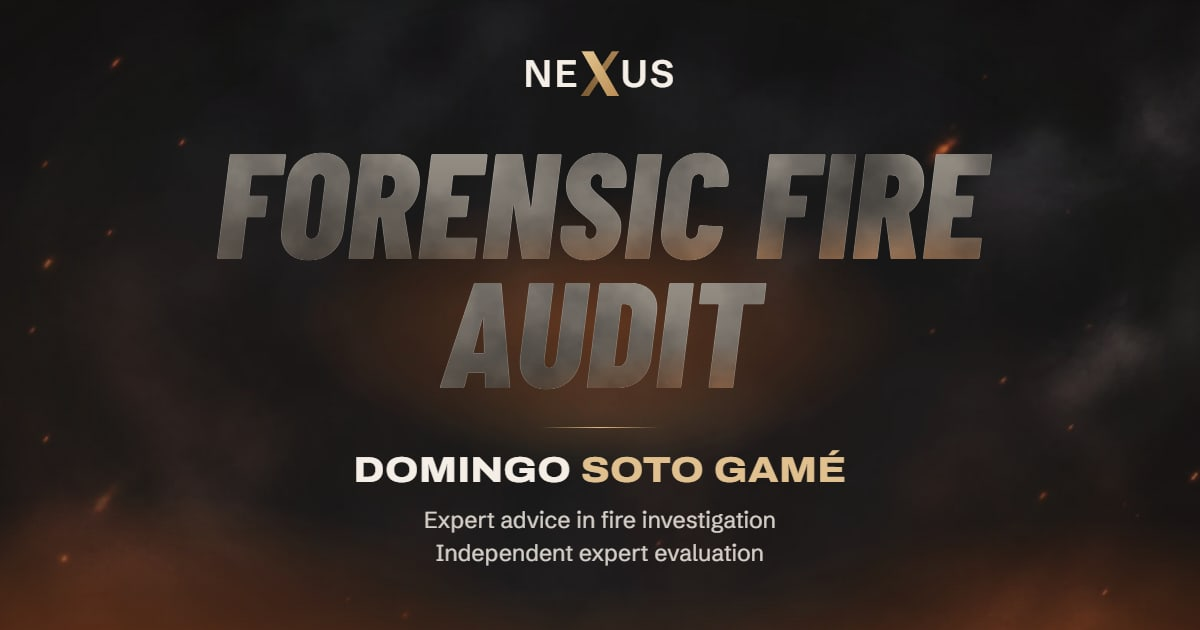
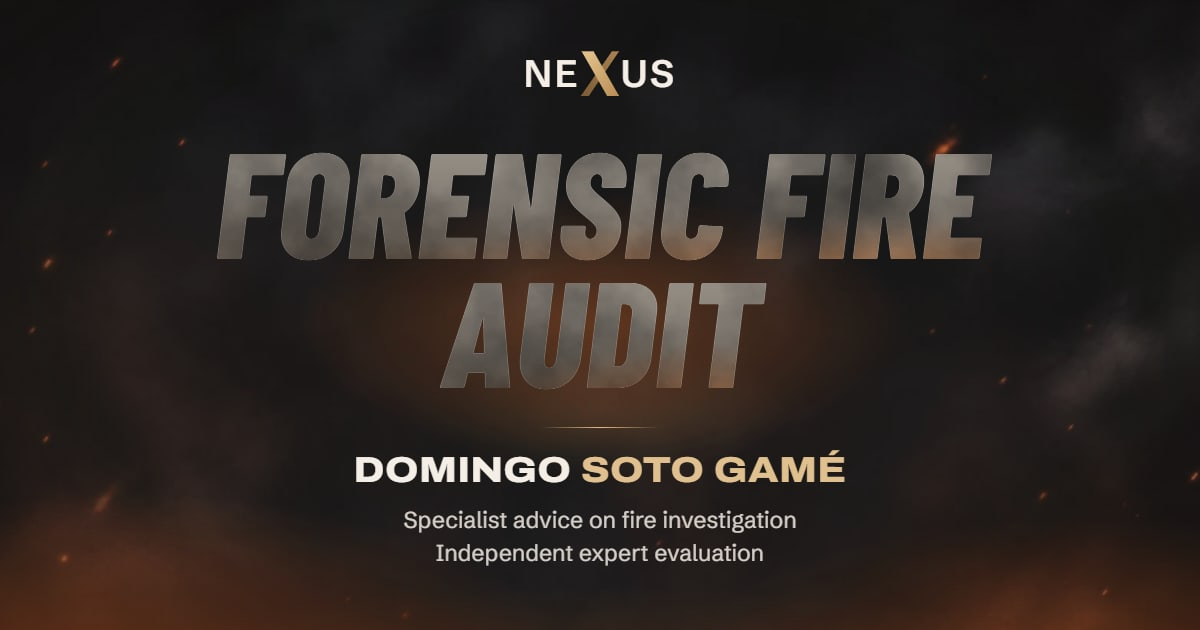
Portada: arreglos de la revisión (sellos en la columna, pantallas bajas, frases y botones)
- Frases: nueva redacción en inglés y primera frase en portugués más corta;
  la letra baja apenas en celular para que cada frase quepa en una línea
  desde 320 px en los 3 idiomas.
- Hasta 1023 px los sellos IAAI van dentro de la columna, justo sobre el
  título, y forman un solo grupo con el resto.
- Pantallas de poco alto bajo 1024 px de ancho: hasta 640 px de alto el título
  baja y se oculta la etiqueta rotativa; hasta 500 px, además, márgenes
  mínimos, sellos y botones más bajos y, si el ancho da, las frases en una
  línea. Los dos botones quedan en la primera pantalla.
- Botones bajo 360 px con letra y relleno menores: ya no se parten en dos líneas.
- test:portada mide las letras del título (no el bloque de la línea) y suma 320x568.
- Imágenes al compartir regeneradas con las frases nuevas.
- Comentario de Hero.tsx y DESIGN.md al día.

Changed region(s): [[0.3392, 0.8143, 0.6783, 0.8444]]

diff --git a/src/components/hero/Hero.tsx b/src/components/hero/Hero.tsx
@@ -16,7 +16,7 @@ import { Embers } from "./Embers";
 import { RotatingTag } from "./RotatingTag";
 import { SmokeGL } from "./SmokeGL";
 
-// Entrada comprimida (revisión general, 12-11): título, nombre, frase y botones quedan en pantalla antes de ~1,5 s.
+// Entrada comprimida (revisión general, 12-11): título, nombre, frases y botones quedan en pantalla antes de ~1,5 s.
 // Los demás tiempos están en globals.css.
 // El paso entre letras bajó de 0,04 a 0,032 s con el título nuevo (20-11): la línea más larga tiene 17 letras
 // y así termina de encenderse a la misma hora que la anterior.
@@ -192,8 +192,9 @@ export function Hero() {
 
   return (
     // Portada sin retrato (pedido de Domingo, 20-11): el título es el protagonista y la foto queda para Perfil.
-    // Una sola columna centrada en todos los anchos: título, etiqueta, nombre, hilo, frase y botones, sobre el
-    // humo, las brasas y el resplandor. Los sellos van arriba en celular y tablet, y abajo a la izquierda desde 1024 px.
+    // Una sola columna centrada en todos los anchos: título, etiqueta, nombre, hilo, frases y botones, sobre el
+    // humo, las brasas y el resplandor. Los sellos van en la misma columna, justo sobre el título, en celular y
+    // tablet, y abajo a la izquierda desde 1024 px. En pantallas de poco alto la columna se compacta (globals.css).
     // El relleno superior es el alto de la barra fija (80 px en celular, 96 px desde sm).
     <section
       ref={sectionRef}
@@ -231,7 +232,31 @@ export function Hero() {
 
       {/* Columna central: ocupa el alto que queda bajo la barra y centra el conjunto. No lleva posición ni z-index
           propios, para que el título (detrás de las brasas) y el texto (delante) sigan en el apilado de la sección. */}
-      <div className="flex flex-1 flex-col items-center justify-center px-3 pt-[clamp(0.5rem,2svh,1.5rem)] pb-[clamp(1.5rem,6svh,4.5rem)] sm:px-5 lg:pb-[clamp(3.5rem,11svh,7rem)]">
+      <div className="nx-hero-columna flex flex-1 flex-col items-center justify-center px-3 pt-[clamp(0.5rem,2svh,1.5rem)] pb-[clamp(1.5rem,6svh,4.5rem)] sm:px-5 lg:pb-[clamp(3.5rem,11svh,7rem)]">
+        {/* Sellos IAAI (Aaron, 10-11). Hasta 1023 px abren la columna, pegados al título, para que todo se lea
+            como un solo grupo. Desde 1024 px salen del flujo: abajo a la izquierda, alineados con el logo. */}
+        <div className="nx-hero-sellos-caja pointer-events-none relative z-20 mb-[clamp(0.9rem,2.6svh,1.75rem)] lg:absolute lg:inset-x-0 lg:bottom-[max(2.4rem,5.5svh)] lg:mb-0">
+          <ul
+            aria-label={hero.sealsLabel}
+            className="nx-hero-sellos in-cta mx-auto flex max-w-[1440px] items-center justify-center px-5 sm:px-8 lg:justify-start lg:px-[8.5vw] xl:px-[min(8.5vw,140px)]"
+            style={{ "--d": "1.3s" } as Vars}
+          >
+            {profile.seals.map((seal, i) => (
+              <li key={seal.name} className={i > 0 ? "-ml-1.5 lg:-ml-2" : ""}>
+                {/* eslint-disable-next-line @next/next/no-img-element -- export estático, sin optimizador de imágenes */}
+                <img
+                  src={seal.logo}
+                  alt={seal.name}
+                  width={320}
+                  height={320}
+                  decoding="async"
+                  className="size-9 rounded-full shadow-[0_6px_18px_-6px_rgba(0,0,0,.85)] ring-2 ring-ceniza sm:size-10 lg:size-11 xl:size-14"
+                />
+              </li>
+            ))}
+          </ul>
+        </div>
+
         {/* 4 · Título que se enciende y queda carbonizado, con la luz del fuego detrás */}
         <motion.div
           className="pointer-events-none relative -z-10 flex justify-center will-change-transform"
@@ -254,11 +279,11 @@ export function Hero() {
 
         {/* 5 · Etiqueta, nombre, frase y acciones */}
         <motion.div
-          className="relative z-20 mt-[clamp(1.6rem,4.6svh,3.4rem)] flex w-full flex-col items-center text-center"
+          className="nx-hero-cuerpo relative z-20 mt-[clamp(1.6rem,4.6svh,3.4rem)] flex w-full flex-col items-center text-center"
           style={{ ...content, opacity: contentOpacity }}
         >
-          <RotatingTag items={hero.tags} className="mb-4 sm:mb-5" />
-          <p className="font-name text-[min(1.9rem,6.4vw)] leading-[1] font-extrabold tracking-[0.01em] text-hueso uppercase [font-stretch:115%] [text-shadow:0_2px_28px_rgba(0,0,0,.6)] sm:text-[clamp(1.9rem,3.6vw,3.7rem)] lg:text-[clamp(1.9rem,min(3.2vw,5.6svh),3.4rem)]">
+          <RotatingTag items={hero.tags} className="nx-hero-tag mb-4 sm:mb-5" />
+          <p className="nx-hero-nombre font-name text-[min(1.9rem,6.4vw)] leading-[1] font-extrabold tracking-[0.01em] text-hueso uppercase [font-stretch:115%] [text-shadow:0_2px_28px_rgba(0,0,0,.6)] sm:text-[clamp(1.9rem,3.6vw,3.7rem)] lg:text-[clamp(1.9rem,min(3.2vw,5.6svh),3.4rem)]">
             <span className="sr-only">{hero.name}</span>
             <span aria-hidden="true">
               {/* El relleno superior deja ver la tilde de GAMÉ al final, y la máscara la oculta al inicio */}
@@ -274,19 +299,21 @@ export function Hero() {
               </span>
             </span>
           </p>
-          <span className="in-rule mt-[clamp(0.8rem,1.8svh,1.3rem)] block h-px w-[clamp(72px,7vw,120px)] origin-center bg-gradient-to-r from-transparent via-oro-claro to-transparent" aria-hidden="true" />
-          {/* Las dos frases: una por línea hasta 1023 px; desde 1024 px, en una sola línea con un punto medio. */}
-          <p className="in-role mt-[clamp(0.8rem,1.8svh,1.3rem)] text-[clamp(0.8rem,4.1vw,1.06rem)] leading-[1.45] font-normal tracking-[0.005em] text-balance text-hueso/85 [text-shadow:0_1px_14px_rgba(0,0,0,.6)] lg:text-[clamp(1.02rem,1.3vw,1.28rem)]">
+          <span className="nx-hero-hilo in-rule mt-[clamp(0.8rem,1.8svh,1.3rem)] block h-px w-[clamp(72px,7vw,120px)] origin-center bg-gradient-to-r from-transparent via-oro-claro to-transparent" aria-hidden="true" />
+          {/* Las dos frases: una por línea hasta 1023 px; desde 1024 px (y en celular horizontal, por falta de
+              alto), en una sola línea con un punto medio. */}
+          <p className="nx-hero-frase in-role mt-[clamp(0.8rem,1.8svh,1.3rem)] text-[clamp(0.78rem,4vw,1.06rem)] leading-[1.45] font-normal tracking-[0.005em] text-balance text-hueso/85 [text-shadow:0_1px_14px_rgba(0,0,0,.6)] lg:text-[clamp(1.02rem,1.3vw,1.28rem)]">
             <span className="block lg:inline">{hero.roleLines[0]}</span>
             <span className="hidden text-oro-claro/80 lg:inline" aria-hidden="true">
               {" · "}
             </span>
             <span className="block lg:inline">{hero.roleLines[1]}</span>
           </p>
-          <div className="mt-[clamp(1.3rem,3.4svh,2.6rem)] flex w-full max-w-[340px] flex-col items-stretch gap-3 sm:w-auto sm:max-w-none sm:flex-row sm:items-center sm:gap-[clamp(1rem,3vw,3.2rem)] lg:mt-[clamp(1.5rem,4.4svh,2.8rem)]">
+          {/* Bajo 360 px los botones llevan letra y relleno algo menores: en inglés y portugués se partían en dos líneas. */}
+          <div className="nx-hero-botones mt-[clamp(1.3rem,3.4svh,2.6rem)] flex w-full max-w-[340px] flex-col items-stretch gap-3 sm:w-auto sm:max-w-none sm:flex-row sm:items-center sm:gap-[clamp(1rem,3vw,3.2rem)] lg:mt-[clamp(1.5rem,4.4svh,2.8rem)]">
             <a
               href={links.formulario}
-              className="in-cta btn btn-oro h-[3.3rem] px-9 text-[0.92rem] sm:h-[clamp(3.4rem,6.4svh,3.9rem)] sm:min-w-[19rem] sm:text-[clamp(0.9rem,1vw,1.05rem)]"
+              className="in-cta btn btn-oro h-[3.3rem] px-9 text-[0.92rem] max-[360px]:px-5 max-[360px]:text-[0.85rem] sm:h-[clamp(3.4rem,6.4svh,3.9rem)] sm:min-w-[19rem] sm:text-[clamp(0.9rem,1vw,1.05rem)]"
               style={{ "--d": "1.1s" } as Vars}
             >
               {hero.primaryCta}
@@ -294,7 +321,7 @@ export function Hero() {
             </a>
             <a
               href="#servicios"
-              className="in-cta btn btn-linea h-[3.3rem] px-9 text-[0.92rem] sm:h-[clamp(3.4rem,6.4svh,3.9rem)] sm:min-w-[15rem] sm:text-[clamp(0.9rem,1vw,1.05rem)]"
+              className="in-cta btn btn-linea h-[3.3rem] px-9 text-[0.92rem] max-[360px]:px-5 max-[360px]:text-[0.85rem] sm:h-[clamp(3.4rem,6.4svh,3.9rem)] sm:min-w-[15rem] sm:text-[clamp(0.9rem,1vw,1.05rem)]"
               style={{ "--d": "1.18s" } as Vars}
             >
               {hero.secondaryCta}
@@ -317,30 +344,6 @@ export function Hero() {
         }}
         aria-hidden="true"
       />
-
-      {/* 7 · Sellos IAAI (Aaron, 10-11). Desde 1024 px, abajo a la izquierda, alineados con el logo.
-          Hasta 1023 px van primero en el flujo, centrados entre la barra y el título. */}
-      <div className="pointer-events-none relative z-20 order-first pt-1 lg:absolute lg:inset-x-0 lg:bottom-[max(2.4rem,5.5svh)] lg:pt-0">
-        <ul
-          aria-label={hero.sealsLabel}
-          className="nx-hero-sellos in-cta mx-auto flex max-w-[1440px] items-center justify-center px-5 sm:px-8 lg:justify-start lg:px-[8.5vw] xl:px-[min(8.5vw,140px)]"
-          style={{ "--d": "1.3s" } as Vars}
-        >
-          {profile.seals.map((seal, i) => (
-            <li key={seal.name} className={i > 0 ? "-ml-1.5 lg:-ml-2" : ""}>
-              {/* eslint-disable-next-line @next/next/no-img-element -- export estático, sin optimizador de imágenes */}
-              <img
-                src={seal.logo}
-                alt={seal.name}
-                width={320}
-                height={320}
-                decoding="async"
-                className="size-9 rounded-full shadow-[0_6px_18px_-6px_rgba(0,0,0,.85)] ring-2 ring-ceniza sm:size-10 lg:size-11 xl:size-14"
-              />
-            </li>
-          ))}
-        </ul>
-      </div>
     </section>
   );
 }

diff --git a/src/app/globals.css b/src/app/globals.css
@@ -473,9 +473,84 @@
     radial-gradient(30% 22% at 50% 78%, rgba(255, 190, 120, 0.3), rgba(255, 150, 70, 0) 72%);
 }
 
-/* Los sellos van arriba en el flujo hasta 1023 px: entran antes, con el título, y no al final como en escritorio. */
+/* Hasta 1023 px los sellos abren la columna, sobre el título: entran antes, con él, y no al final como en escritorio. */
 @media (max-width: 1023.98px) {
   .nx-hero-sellos {
     --d: 0.3s !important;
+  }
+}
+
+/* Poco alto (celular y tablet en horizontal, navegadores dentro de otras apps): la columna se compacta para que
+   los dos botones queden en la primera pantalla. Solo bajo 1024 px de ancho: desde ahí la portada tiene un alto
+   mínimo propio. */
+
+/* Hasta 640 px de alto, en horizontal: título más bajo y sin la etiqueta rotativa. */
+@media (min-width: 640px) and (max-width: 1023.98px) and (max-height: 640px) {
+  .nx-hero-titulo {
+    font-size: min(88.5vw / var(--nx-letra), 16svh);
+  }
+
+  .nx-hero-tag {
+    display: none;
+  }
+
+  .nx-hero-columna {
+    padding-bottom: 1rem;
+  }
+}
+
+/* Hasta 500 px de alto: además, márgenes mínimos, sellos y botones más bajos. */
+@media (max-width: 1023.98px) and (max-height: 500px) {
+  .nx-hero-titulo {
+    font-size: min(90vw / var(--nx-letra), 14svh);
+  }
+
+  .nx-hero-tag {
+    display: none;
+  }
+
+  .nx-hero-columna {
+    padding-block: 0.25rem 0.5rem;
+  }
+
+  .nx-hero-sellos-caja {
+    margin-bottom: 0.4rem;
+  }
+
+  .nx-hero-sellos img {
+    width: 2rem;
+    height: 2rem;
+  }
+
+  .nx-hero-cuerpo {
+    margin-top: 0.7rem;
+  }
+
+  .nx-hero-hilo,
+  .nx-hero-frase {
+    margin-top: 0.5rem;
+  }
+
+  .nx-hero-botones {
+    margin-top: 0.75rem;
+  }
+
+  .nx-hero-botones .btn {
+    height: 2.75rem;
+  }
+}
+
+/* Y si además es ancho (celular en horizontal), las dos frases van en una línea con su punto, como en escritorio. */
+@media (min-width: 640px) and (max-width: 1023.98px) and (max-height: 500px) {
+  .nx-hero-nombre {
+    font-size: 1.6rem;
+  }
+
+  .nx-hero-frase {
+    font-size: 0.95rem;
+  }
+
+  .nx-hero-frase > span {
+    display: inline;
   }
 }

diff --git a/src/data/nexus.ts b/src/data/nexus.ts
@@ -496,7 +496,7 @@ const en: Texts = {
   },
   hero: {
     titleLines: ["Forensic fire", "audit"],
-    roleLines: ["Expert advice in fire investigation", "Independent expert evaluation"],
+    roleLines: ["Specialist advice on fire investigation", "Independent expert evaluation"],
     tags: ["Chilean attorney since 1997", "IAAI-FIT", "NFPA 921 method", "Fire investigator since 2012"],
     primaryCta: "Request a consultation",
     secondaryCta: "View services",
@@ -713,7 +713,7 @@ const pt: Texts = {
   },
   hero: {
     titleLines: ["Auditoria forense", "de incêndios"],
-    roleLines: ["Assessoria especializada em investigação de incêndios", "Avaliação pericial independente"],
+    roleLines: ["Assessoria técnica em investigação de incêndios", "Avaliação pericial independente"],
     tags: ["Advogado no Chile desde 1997", "IAAI-FIT", "Método NFPA 921", "Investigador de incêndios desde 2012"],
     primaryCta: "Solicitar assessoria",
     secondaryCta: "Ver serviços",

diff --git a/DESIGN.md b/DESIGN.md
@@ -172,7 +172,7 @@ Un contenedor central de 1240 px con márgenes laterales de 20, 32 y 48 px (móv
 
 En escritorio las secciones se arman en rejillas asimétricas de dos columnas (1.1fr contra 1fr, 0.72fr contra 1fr, 0.75fr contra 2fr) con separaciones en clamp de 3 a 6.5rem; en móvil todo cae a una columna en el orden del DOM. Servicios es maestro-detalle en escritorio y acordeón en móvil. Las listas se separan con hilos, no con tarjetas: a quién sirve es una fila de cuatro columnas con divisores dorados verticales que en móvil pasan a ser horizontales.
 
-La hero ocupa la primera pantalla y no lleva retrato (pedido de Domingo, 20-11: su foto va en Perfil, no al inicio). El título "Auditoría forense de incendios" es el protagonista: dos líneas en cursiva carbonizada, con la línea más larga a cerca del 82 % del ancho en escritorio y del 90 % en celular, y un resplandor de brasa detrás que sube mientras las letras se encienden y después parpadea apenas. Todo va en una sola columna centrada en el alto que queda bajo la barra, igual en todos los anchos: título, etiqueta rotativa, nombre (en una línea), hilo dorado, las dos frases y los dos botones. Las dos frases van en una línea separadas por un punto medio desde 1024 px, y una por línea, sin punto, en celular y tablet; el punto lo pone el componente, no los textos. Los sellos IAAI van abajo a la izquierda, alineados con el logo, desde 1024 px, y centrados entre la barra y el título hasta 1023 px. El fondo es solo humo, brasas y resplandor: se probó una escena del sitio muy atenuada detrás y competía con el título, así que no va. Título y texto comparten la velocidad de scroll, para que el parallax no los cruce. La entrada completa (sellos, título, nombre, frases y botones) queda en pantalla antes de ~1,5 s. `npm run test:portada` mide los cruces en nueve pantallas y tres idiomas.
+La hero ocupa la primera pantalla y no lleva retrato (pedido de Domingo, 20-11: su foto va en Perfil, no al inicio). El título "Auditoría forense de incendios" es el protagonista: dos líneas en cursiva carbonizada, con la línea más larga a al 83 % del ancho en escritorio y del 90 % en celular, y un resplandor de brasa detrás que sube mientras las letras se encienden y después parpadea apenas. Todo va en una sola columna centrada en el alto que queda bajo la barra, igual en todos los anchos: título, etiqueta rotativa, nombre (en una línea), hilo dorado, las dos frases y los dos botones. Las dos frases van en una línea separadas por un punto medio desde 1024 px, y una por línea, sin punto, en celular y tablet; el punto lo pone el componente, no los textos. Los sellos IAAI van abajo a la izquierda, alineados con el logo, desde 1024 px; hasta 1023 px abren la columna, justo sobre el título, para que todo se lea como un solo grupo. Con poco alto (celular o tablet en horizontal) la columna se compacta para que los dos botones queden en la primera pantalla: hasta 640 px de alto el título baja a 16svh y la etiqueta rotativa se oculta; hasta 500 px, además, 14svh, márgenes mínimos, sellos y botones más bajos y, si el ancho da, las dos frases en una línea. El fondo es solo humo, brasas y resplandor: se probó una escena del sitio muy atenuada detrás y competía con el título, así que no va. Título y texto comparten la velocidad de scroll, para que el parallax no los cruce. La entrada completa (sellos, título, nombre, frases y botones) queda en pantalla antes de ~1,5 s. `npm run test:portada` mide los cruces en nueve pantallas y tres idiomas.
 
 El orden de la página: Hero, Intersección, Servicios, Perfil, Método, Resultado y Contacto, con fondos alternados desde Servicios (humo, ceniza, humo, ceniza, humo).
 
